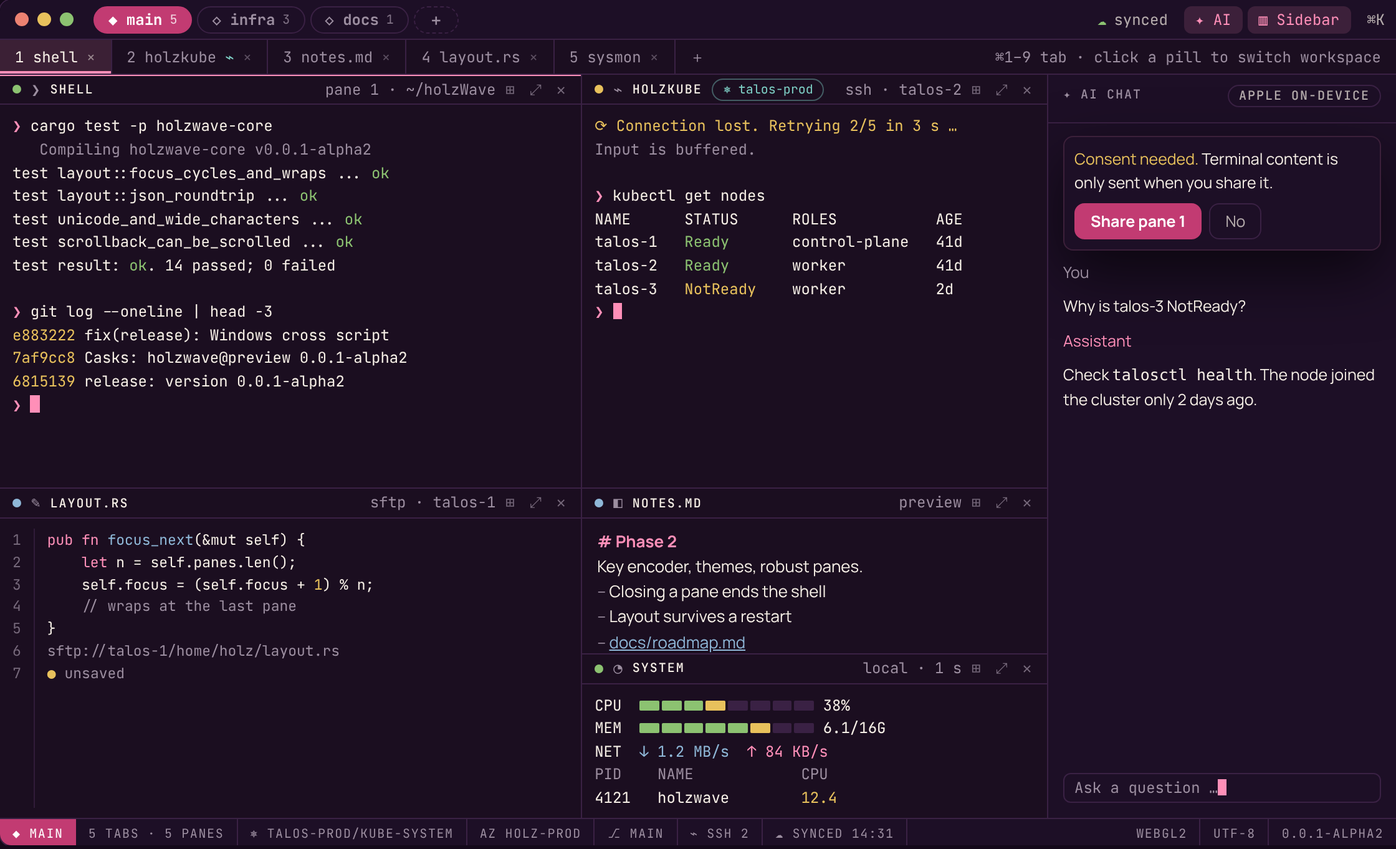
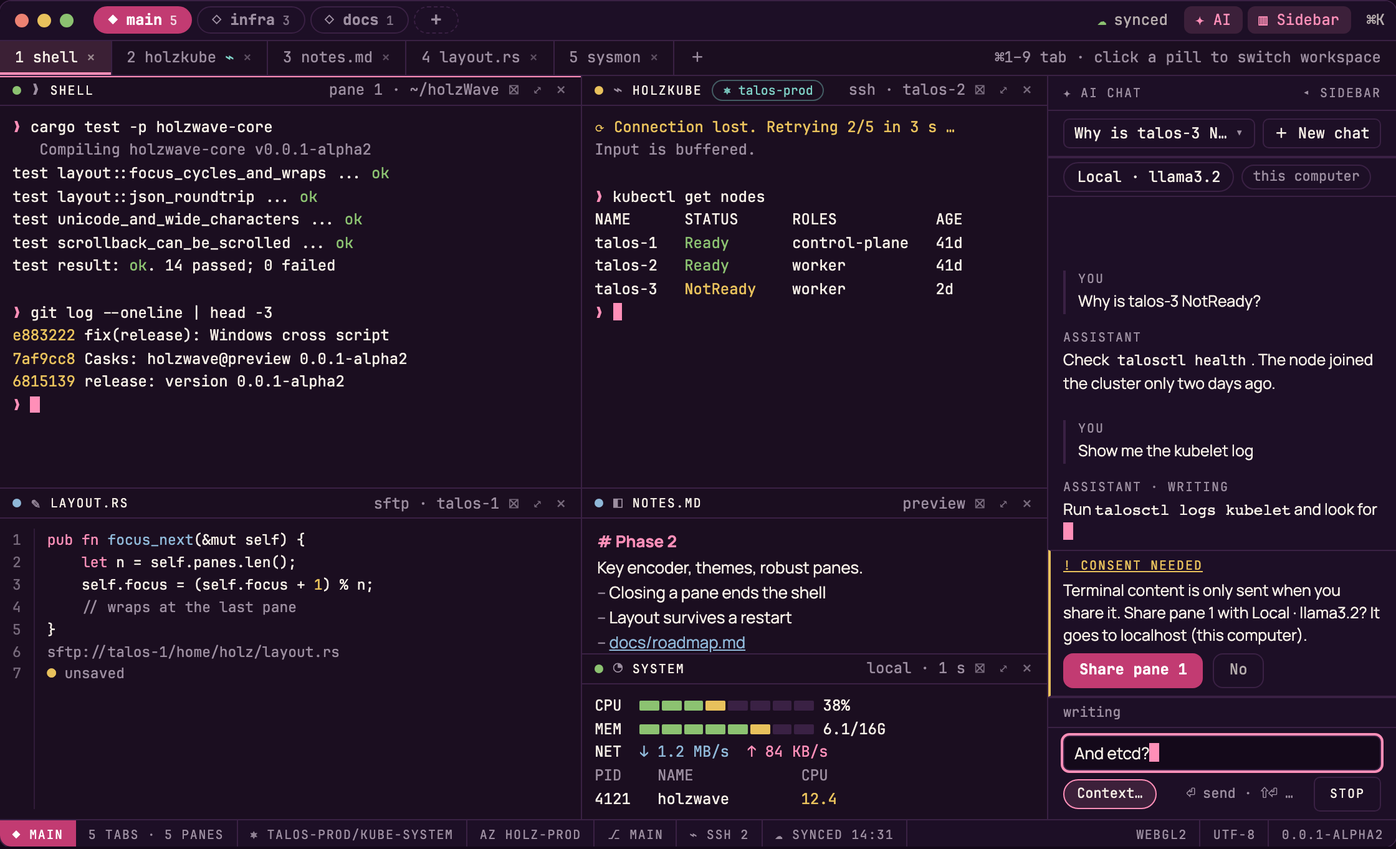
feat(07-32): the design record, the render script and the images were updated with the AI form of the sidebar column
- the column is the screen at 640 px and narrower with 44 px targets, contrast, motion and forced-colour modes reach the new controls
- docs/design/haarlinie-voll.html redraws the view ki and draws kichats, kisidecards and the phones row phones-side; render.cjs gains
  --dump and --html, so a markup hash proves that every other view and phones row is unchanged
- ai-chat.png is rendered again, ai-sidebar-list.png, ai-sidebar-cards.png and ai-sidebar-phone.png are new

Claude-Session: https://claude.ai/code/session_0131Y2UoT3m3QMiRtq78S4Lz

diff --git a/docs/design/haarlinie-voll.html b/docs/design/haarlinie-voll.html
@@ -268,6 +268,40 @@ p.lead{margin:6px 0 0;color:var(--ink2);max-width:70ch}
 .ph1 .c-foot{gap:6px;font-size:8px}
 .ph1 .c-send{min-height:22px;min-width:22px;padding:0 8px;font-size:8px}
 .ph1 .c-row{height:22px;padding:0 8px;font-size:9px;gap:6px}
+/* AI chat in the sidebar (docs/design.md 6.18): the column in its AI form. Flat, hairline, no shadow; the rose marks the chat on screen only. */
+.sa-side{overflow:hidden}
+.sa-head{display:flex;align-items:center;justify-content:space-between;flex:none;min-height:28px;padding:3px 12px;border-bottom:1px solid var(--edge);color:var(--ink3)}
+.sa-back{color:var(--ink3)}
+.sa-bar{display:flex;align-items:center;gap:6px;flex:none;padding:6px 12px;border-bottom:1px solid var(--edge)}
+.sa-title{flex:1;min-width:0;display:flex;align-items:center;gap:6px;min-height:24px;padding:0 8px;border:1px solid var(--edge);border-radius:5px;color:var(--ink);white-space:nowrap;overflow:hidden}
+.sa-text{flex:1;min-width:0;overflow:hidden;text-overflow:ellipsis}.sa-caret{flex:none;color:var(--ink3)}
+.sa-new{flex:none;display:inline-flex;align-items:center;min-height:24px;padding:0 8px;border:1px solid var(--edge);border-radius:5px;color:var(--ink);white-space:nowrap}
+.sa-status{flex:none;padding:3px 12px;border-bottom:1px solid var(--edge);color:var(--ink3);font-size:10px;white-space:nowrap;overflow:hidden;text-overflow:ellipsis}
+.sa-list{flex:none;border-bottom:1px solid var(--edge)}
+.sa-note{padding:3px 12px 0;color:var(--ink3);font-size:10px}
+.sa-row{display:flex;align-items:stretch;border-left:2px solid transparent}.sa-row.on{background:var(--wash);border-left-color:var(--rose)}
+.sa-pick{flex:1;min-width:0;display:grid;grid-template-columns:12px minmax(0,1fr);column-gap:6px;align-items:center;min-height:28px;padding:3px 8px}
+.sa-mk{grid-column:1;grid-row:1/3;align-self:start}
+.sa-nm{grid-column:2;overflow:hidden;text-overflow:ellipsis;white-space:nowrap}
+.sa-mt{grid-column:2;color:var(--ink3);font-size:10px;white-space:nowrap;overflow:hidden;text-overflow:ellipsis}
+.sa-del{align-self:center;flex:none;display:inline-flex;align-items:center;min-height:24px;margin-right:8px;padding:0 7px;border:1px solid var(--edge);border-radius:5px;color:var(--ink3);font-size:10px;white-space:nowrap}
+.sa-del.arm{border-color:var(--danger);color:var(--danger);text-decoration:underline}
+.sa-chat{flex:1;min-height:0;display:flex;flex-direction:column;border-top:1px solid var(--edge)}
+.sa-side .c-bar{min-height:30px;padding:3px 12px}
+.sa-side .c-log{padding:8px 12px;font-size:12.5px}
+.sa-side .c-comp{padding:6px 12px}
+.sa-side .ax-card,.sa-side .cx-card{padding:5px 10px 6px}
+.sa-side .ax-row{grid-template-columns:minmax(0,1fr) max-content;gap:0 8px;padding:1px 0}
+.sa-side .ax-row .nm{grid-column:1;grid-row:1}.sa-side .ax-row .by{grid-column:2;grid-row:1}.sa-side .ax-row .vl{grid-column:1/3;grid-row:2}
+.sa-side .ax-pay{max-height:124px;overflow:hidden}
+.sa-side .ax-where{margin-left:0;flex-basis:100%}
+.ph1 .sa-head{min-height:22px;padding:1px 8px;font-size:8px}
+.ph1 .sa-bar{padding:4px 8px;gap:4px}
+.ph1 .sa-title,.ph1 .sa-new{min-height:22px;font-size:8px;padding:0 6px}
+.ph1 .sa-status{padding:1px 8px;font-size:7.5px}
+.ph1 .sa-note{padding:2px 8px 0;font-size:7.5px}
+.ph1 .sa-pick{min-height:22px;padding:2px 6px;font-size:8px}.ph1 .sa-mt{font-size:7.5px}
+.ph1 .sa-del{min-height:22px;min-width:22px;justify-content:center;margin-right:5px;font-size:7.5px}
 /* Handys */
 .phones{display:flex;gap:16px;flex-wrap:wrap;width:fit-content;max-width:100%}
 .ph1{width:200px;height:400px;border:1px solid var(--edge);border-radius:22px;overflow:hidden;background:var(--ground);display:flex;flex-direction:column;font:400 10px/1.5 var(--mono);position:relative}
@@ -330,6 +364,10 @@ td:first-child{color:var(--ink);font-weight:600;white-space:nowrap}
   <h2>Running a command on a phone</h2>
   <p class="lead">The card is part of the screen: Allow once, Deny and the result toggle are at least 44 px high, the card is at most 60 % of the height and scrolls inside, and the command wraps and is never cut. Left, the command that waits; right, the same chat after a run that failed, with its result opened as text above the composer. Shown at the scale of the mock (about half).</p>
   <div class="phones" id="phones-command"></div>
+
+  <h2>AI chat in the sidebar on a phone</h2>
+  <p class="lead">The AI form of the column is the screen, as the sidebar is: ◂ Sidebar, the title button, ＋ New chat, every row and × are at least 44 px high (× also 44 px wide) and the composer text is at least 16 px. Left, the chat; right, the list with the chat on screen, a chat that is open in a pane (no ×) and a delete that was armed.</p>
+  <div class="phones" id="phones-side"></div>
 
   <h2>Features and where they live</h2>
   <div class="tblwrap"><table id="cov"></table></div>
@@ -430,7 +468,7 @@ function base(v){
   return `<div class="titlebar row">${wcL}
     <div class="ws on">◆ main <span class="n">5</span></div><div class="ws">◇ infra <span class="n">3</span></div><div class="ws">◇ docs <span class="n">1</span></div><div class="ws plus">＋</div>
     <span class="fill"></span>
-    <div class="tbtn ${v==='sync'?'on':''}"><span class="ok">☁</span> synced</div><div class="tbtn ${v==='ki'||v==='kipane'||v==='kistates'||v==='kiset'||v==='kiask'||v==='kioffer'||v==='kiapprove'||v==='kiapprovestates'||v==='kiwrite'||v==='kiwritestates'||v==='kicommand'||v==='kicommandstates'?'on':''}">✦ AI${v==='kiapprove'||v==='kiapprovestates'||v==='kiwrite'||v==='kicommand'?' <span class="ax-n">· 1</span>':''}</div><div class="tbtn on">▥ Sidebar</div><div class="tbtn ${v==='palette'?'on':''}">⌘K</div>${wcR}</div>
+    <div class="tbtn ${v==='sync'?'on':''}"><span class="ok">☁</span> synced</div><div class="tbtn ${v==='ki'||v==='kichats'||v==='kisidecards'||v==='kipane'||v==='kistates'||v==='kiset'||v==='kiask'||v==='kioffer'||v==='kiapprove'||v==='kiapprovestates'||v==='kiwrite'||v==='kiwritestates'||v==='kicommand'||v==='kicommandstates'?'on':''}">✦ AI${v==='kiapprove'||v==='kiapprovestates'||v==='kiwrite'||v==='kicommand'||v==='kisidecards'?' <span class="ax-n">· 1</span>':''}</div><div class="tbtn on">▥ Sidebar</div><div class="tbtn ${v==='palette'?'on':''}">⌘K</div>${wcR}</div>
   <div class="tabrow row">${tabs(v==='blocks'?1:0)}<span class="fill"></span><span class="dim" style="padding-right:12px">⌘1–9 tab · click a pill to switch workspace</span></div>
   <div class="body">${v==='preview'?previewArea():v==='kipane'||v==='kistates'||v==='kiset'||v==='kiask'||v==='kioffer'||v==='kiapprove'||v==='kiapprovestates'||v==='kiwrite'||v==='kiwritestates'||v==='kicommand'||v==='kicommandstates'?chatArea(v):`<div class="area">
     ${P('','❯','shell','pane 1 · ~/holzWave',shell(v==='search'?'search':v==='copy'?'copy':''),{f:1,s:'grid-row:1/2'})}
@@ -440,13 +478,8 @@ function base(v){
       ${P('in','◧','notes.md','preview',md)}
       ${P('','◔','system','local · 1 s',sysmon)}
     </div>${searchBar}
-  </div>`}${v==='ki'?'':side}${v==='ki'?kiPanel:''}</div>${copyBar||status()}`;
+  </div>`}${v==='ki'||v==='kichats'||v==='kisidecards'?sideAI(v):side}</div>${copyBar||status()}`;
 }
-const kiPanel=`<div class="side" style="width:280px"><div class="sec"><div class="h lbl"><span>✦ AI chat</span><span class="chip">Apple on-device</span></div></div>
- <div class="col fill" style="padding:10px 12px;gap:8px;font-family:var(--sans);font-size:12.5px"><div class="float" style="padding:8px;border-radius:8px;border-color:var(--wash)"><span class="wa">Consent needed.</span> Terminal content is only sent when you share it.<div class="row" style="gap:6px;margin-top:6px"><span class="btn p">Share pane 1</span><span class="btn">No</span></div></div>
- <div class="dim">You</div><div>Why is talos-3 NotReady?</div><div class="ro">Assistant</div><div>Check <code>talosctl health</code>. The node joined the cluster only 2 days ago.</div></div>
- <div class="input" style="margin:8px 12px 12px">Ask a question …<span class="cur"></span></div></div>`;
-
 /* The chat pane (docs/design.md 6.12). Two states of one conversation: `kipane` streams a reply, `kistates` shows the picker, a stopped
    reply, a failed turn and a long draft. The words are the ones of the page: the status words, the end row, the count. */
 const cMsg=(who,html,o={})=>`<div class="c-msg ${o.u?'u':''}"><div class="c-who">${who}${o.stat?` · <span class="c-stat ${o.run?'run':''}">${o.stat}</span>`:''}</div><div class="${o.md?'c-md':''}">${html}</div></div>`;
@@ -560,6 +593,30 @@ cBody.kicommand=`<div class="c-chat wx-fit"><div class="c-bar"><span class="c-ch
 cBody.kicommandstates=`<div class="c-chat wx-fit"><div class="c-bar"><span class="c-chip">Claude · claude-sonnet-5-5 → api.anthropic.com</span><span class="c-where leaves">cloud</span><span class="c-usage">in 3.4k · out 190</span><span class="c-setup">Providers…</span></div>
  <div class="c-log bot">${cMsg('assistant',`<div class="ax-tools">${wxTr('ran','Run a command','git status --short',{tog:'Hide result',res:'Exit status: 0.\n\nStandard output:\n M README.md'})}${wxTr('er','Run a command','cargo build 2&gt;&amp;1',{tog:'Hide result',res:'Exit status: 101.\n\nStandard error:\n[earlier output omitted]\nerror[E0432]: unresolved import `crate::cache`'})}${wxTr('er','Run a command','npm run e2e',{tog:'Hide result',res:'Stopped: the command ran longer than 60 seconds and was ended.'})}${wxTr('er','Run a command','make clean',{tog:'Hide result',res:'The user denied this action.'})}</div>`,{md:1})}</div>
  ${rxAsk({sent:1,where:'pane 2 · talos-1',remote:1,rows:[['tool','run_command','11 B'],['pane','2','1 B'],['target','talos-1','7 B'],['remote','true','4 B'],['command','talosctl health --server','23 B'],['cwd','/srv/app','8 B'],['timeout_secs','120','3 B'],['resolved_cwd','/srv/app','8 B']],model:'claude-sonnet-5-5',host:'api.anthropic.com',place:'cloud',leaves:1,hash:'c52e90a7d418'})}</div>`;
+/* AI chat in the sidebar (docs/design.md 6.18). The column in its AI form is 280 px wide and takes the place of the sidebar: the head (the name of the form, `◂ Sidebar` leads back), the bar (the title button with its caret, `＋ New chat`), the status line of the list and the list belong to the column; below them is the chat of 6.12 with the same cards. `ki` is the chat with its consent card, `kichats` the list, `kisidecards` an approval card at the column's width. */
+const saRow=(on,title,meta,o={})=>`<div class="sa-row ${on?'on':''}"><div class="sa-pick"><span class="sa-mk">${on?'●':'○'}</span><span class="sa-nm">${title}</span><span class="sa-mt">${meta}</span></div>${o.del?`<span class="sa-del ${o.arm?'arm':''}">${o.arm?'Delete?':'×'}</span>`:''}</div>`;
+const saTop=(open,status)=>`<div class="sa-head"><span class="lbl">✦ AI chat</span><span class="sa-back lbl">◂ Sidebar</span></div>
+ <div class="sa-bar"><span class="sa-title"><span class="sa-text">Why is talos-3 NotReady?</span><span class="sa-caret">${open?'▴':'▾'}</span></span><span class="sa-new">＋ New chat</span></div>${status?`<div class="sa-status">${status}</div>`:''}`;
+const saList=`<div class="sa-list"><div class="sa-note">chat-9.json: damaged, moved aside</div>${saRow(1,'Why is talos-3 NotReady?','llama3.2 · 2 h ago',{del:1})}${saRow(0,'Plan the backup job','llama3.2 · 3 d ago',{del:1})}${saRow(0,'Explain the failed deploy','llama3.2 · in pane 3')}${saRow(0,'Compare backup tools','llama3.2 · 1 w ago',{del:1,arm:1})}</div>`;
+const saBar=`<div class="c-bar"><span class="c-chip">Local · llama3.2</span><span class="c-where">this computer</span></div>`;
+const saComp=(draft,btn,ctx)=>`<div class="c-comp"><div class="c-in fo">${draft}<span class="cur"></span></div>${cFoot('',btn,ctx)}</div>`;
+cBody.ki=`<div class="c-chat">${saBar}
+ <div class="c-log bot">${cMsg('you','Why is talos-3 NotReady?',{u:1})}${cMsg('assistant','<p>Check <code>talosctl health</code>. The node joined the cluster only two days ago.</p>',{md:1})}${cMsg('you','Show me the kubelet log',{u:1})}${cMsg('assistant','Run <code>talosctl logs kubelet</code> and look for<span class="cur"></span>',{stat:'writing',run:1})}</div>
+ <div class="cx-card ask" role="group" aria-label="Share context"><div class="cx-head"><span class="cx-title">! Consent needed</span></div>
+ <p class="cx-t">Terminal content is only sent when you share it. Share pane 1 with Local · llama3.2? It goes to localhost (this computer).</p>
+ <div class="cx-acts"><span class="btn p">Share pane 1</span><span class="btn">No</span></div></div>
+ <div class="c-status">writing</div>
+ ${saComp('And etcd?',cStop,cxBtn('Context…',1))}</div>`;
+cBody.kichats=`<div class="c-chat">${saBar}
+ <div class="c-log bot">${cMsg('you','Show me the kubelet log',{u:1})}${cMsg('assistant','Run <code>talosctl logs kubelet</code> and look for the first error.',{md:1})}</div>
+ <div class="c-status"></div>
+ ${saComp('Ask a question',cSend)}</div>`;
+cBody.kisidecards=`<div class="c-chat">${saBar}
+ <div class="c-log bot">${cMsg('assistant',`<div class="ax-tools">${axTr('ran','List a folder','~/proj/notes','','')}</div>`,{md:1})}</div>
+ ${axAsk({tool:'Read a file',where:'pane 1 · This computer',rows:axReadRows.slice(0,6),dest:axDest('llama3.2','localhost:11434','this computer',0),hash:'9f3a41c2d7be'})}
+ <div class="c-status">waiting for your decision</div>
+ ${saComp('Ask a question',cStop)}</div>`;
+const sideAI=v=>`<div class="side sa-side" style="width:280px">${v==='kichats'?saTop(1,'Chat deleted.')+saList:saTop(0,'')}<div class="sa-chat">${cBody[v]}</div></div>`;
 function chatArea(v){const wide=v==='kiapprove'||v==='kiapprovestates'||v==='kiwrite'||v==='kiwritestates'||v==='kicommand'||v==='kicommandstates';return wide?`<div class="area" style="grid-template-columns:1fr;grid-template-rows:1fr">${P('','✦','chat','Why is talos-3 NotReady?',cBody[v],{f:1,s:'grid-row:1/2'})}</div>`:`<div class="area" style="grid-template-columns:1fr 1fr;grid-template-rows:1fr">${P('','❯','shell','pane 1 · ~/holzWave',shell(''),{s:'grid-row:1/2'})}${P('','✦','chat','Why is talos-3 NotReady?',cBody[v==='kiset'?'kipane':v],{f:1,s:'grid-row:1/2'})}</div>`}
 
 /* The AI providers dialog (docs/design.md 6.13): three groups (privacy, providers, the provider shown) and the buttons. The chosen
@@ -629,7 +686,9 @@ const views=[
  ['keys','Shortcuts','The key binding editor. Grouped by pane, tab, workspace and tools. Always shows the keys of the running platform (see the platform switch). Capture, conflicts and fixed shortcuts are visible.'],
  ['preview','Previews','File browser (local and SFTP) with image, PDF and video as panes of their own. Markdown and the editor are in Daily. Space in the browser opens the preview beside it.'],
  ['sync','Sync','Nextcloud/WebDAV, end-to-end encrypted, conflicts keep a backup, a list of what is synced.'],
- ['ki','AI sidebar','The sidebar form of the chat: it replaces the sidebar when opened. This column and its consent card are drawn ahead of the work that builds them; the chat pane (the next views) is the first built form. Terminal content is sent only with explicit consent per pane.'],
+ ['ki','AI sidebar','The AI chat takes the place of the sidebar in the same column, 280 px wide: the head with ◂ Sidebar leads back, the title button names the chat and ＋ New chat starts another. Below them is the chat of the pane form: the bar, the transcript, the consent card and the composer. Terminal content is sent only after you share that pane.'],
+ ['kichats','AI chat: conversations','The title button opens the list of stored chats under the head: a row for the chat on screen (the rose wash, a 2 px bar and the mark ●), one for every other chat with its model and age, and a chat that is open in a pane says in pane 3 and has no ×. The first press on × turns it into Delete? (underlined, in the danger colour); the second deletes the chat for good. The core’s notes about its folder are dim lines above the rows, and one sentence about the list (here Chat deleted.) is said under the head.'],
+ ['kisidecards','AI chat: approval in the column','A decision is brought to the person: the card of 6.15 in the strip of the column, with the fields of the request stacked (the name with its size, the value under it), its own scroll in the payload box, the place chip, the hash and Allow once and Deny. ✦ AI · 1 in the title bar shows the column in this form on the chat that waits; the card never takes the keyboard.'],
  ['kipane','AI chat','The chat as a pane beside the shell, opened by the ✦ AI button. The bar says where the next request goes (provider, model, host) and, once a turn has told it, the place. A finished reply is Markdown, the reply that streams is plain text with its status word, and Stop takes the place of Send.'],
  ['kistates','AI chat states','The provider picker (a radio group, the chosen row marked), a reply that was stopped, a turn that failed with its class and the core’s line, and a long draft with the core’s token estimate. Every state has a word besides its colour.'],
  ['kiask','AI chat: share a pane','The card that asks before a pane is shared with the chat, here after the provider changed: it names the pane, the provider and where the text would go (the host and the place, cloud in the warn colour), says that every item is shown before a message is sent, and offers Share pane 1 or No. Context… in the composer opens it; nothing is asked of the core before the press.'],
@@ -646,7 +705,7 @@ const views=[
 const vb=$('#views');let cur='alltag';
 function render(){
   const st=$('#stage');
-  st.innerHTML=`<div class="m">${base(cur)}${(cur==='keys'?keysModal($('#root').dataset.os):ovl[cur==='alltag'||cur==='search'||cur==='copy'||cur==='ki'||cur==='kipane'||cur==='kistates'||cur==='kiask'||cur==='kioffer'||cur==='kiapprove'||cur==='kiapprovestates'||cur==='kiwrite'||cur==='kiwritestates'||cur==='kicommand'||cur==='kicommandstates'||cur==='preview'?'':cur]||'')}</div>`;
+  st.innerHTML=`<div class="m">${base(cur)}${(cur==='keys'?keysModal($('#root').dataset.os):ovl[cur==='alltag'||cur==='search'||cur==='copy'||cur==='ki'||cur==='kichats'||cur==='kisidecards'||cur==='kipane'||cur==='kistates'||cur==='kiask'||cur==='kioffer'||cur==='kiapprove'||cur==='kiapprovestates'||cur==='kiwrite'||cur==='kiwritestates'||cur==='kicommand'||cur==='kicommandstates'||cur==='preview'?'':cur]||'')}</div>`;
   $('#note').textContent=views.find(v=>v[0]===cur)[2];
   vb.querySelectorAll('button').forEach(b=>b.setAttribute('aria-pressed',b.dataset.v===cur));
 }
@@ -728,6 +787,14 @@ $('#phones-command').innerHTML=rcPhone(cMsg('assistant',`<div class="ax-tools">$
  rxAsk({where:'pane 1 · This computer',rows:[['tool','run_command','11 B'],['remote','false','5 B'],['command',rcLong,'66 B'],['resolved_cwd','/Users/holz/proj','16 B']],model:'llama3.2',host:'localhost:11434',place:'this computer',leaves:0,taint:rxTaint.replace(' It can try to steer the assistant. Check the target and every field before you allow.',''),hash:'4be1907a2c55'}),'waiting for your decision')
 +rcPhone(cMsg('assistant',`<div class="ax-tools">${wxTr('er','Run a command','cargo test --lib',{tog:'Hide result',res:'Exit status: 101.\n\nStandard error:\nerror[E0432]: unresolved import'})}</div>`,{md:1}),'','working');
 
+/* AI chat in the sidebar on a phone: the AI form as the screen, and the same screen with the list open. */
+const sPhone=(list)=>ph('<span class="ro">✦</span> AI chat<span class="ro" style="margin-left:auto">✦ AI</span>',`<div class="col fill" style="min-height:0"><div class="sa-head"><span class="lbl">✦ AI chat</span><span class="sa-back lbl">◂ Sidebar</span></div>
+ <div class="sa-bar"><span class="sa-title"><span class="sa-text">Why is talos-3 NotReady?</span><span class="sa-caret">${list?'▴':'▾'}</span></span><span class="sa-new">＋ New chat</span></div>${list?`<div class="sa-status">Chat deleted.</div><div class="sa-list">${saRow(1,'Why is talos-3 NotReady?','llama3.2 · 2 h ago',{del:1})}${saRow(0,'Explain the failed deploy','llama3.2 · in pane 3')}${saRow(0,'Compare backup tools','llama3.2 · 1 w ago',{del:1,arm:1})}</div>`:''}
+ <div class="sa-chat"><div class="c-chat"><div class="c-bar"><span class="c-chip btn1">Local · llama3.2</span></div>
+ <div class="c-log bot">${cMsg('you','Show me the kubelet log',{u:1})}${cMsg('assistant','Run <code>talosctl logs kubelet</code>.',{md:1})}</div>
+ <div class="c-comp"><div class="c-in">Ask a question<span class="cur"></span></div><div class="c-foot">${cxBtn()}<span class="keys">⏎ send</span>${cSend}</div></div></div></div></div>`,'',{raw:1});
+$('#phones-side').innerHTML=sPhone(0)+sPhone(1);
+
 /* Feature list */
 const B='<span class="ph-tag built">built</span>',pl=n=>`<span class="ph-tag">Phase ${n}</span>`;
 const rows=[
@@ -738,7 +805,7 @@ const rows=[
 ['SSH with reconnect','Pane header, sidebar, connections',pl(3)],['WSL, Docker','Connections, block picker',pl(3)],['Keychain','Connections',pl(3)],
 ['Nextcloud sync, end-to-end','Title bar ☁, sync popover, settings',pl('3b')],
 ['File previews (Markdown, image, video, PDF)','Previews view and Daily',pl(4)],['Editor with SFTP','Editor block',pl(4)],
-['wsh CLI','Open blocks and set titles from the shell',pl(5)],['Widgets sidebar','Right, collapsible',pl(6)],['History with fuzzy search','Sidebar, ⌃R',pl(6)],['System monitor','System block',pl(6)],['AI chat in a pane','Title bar ✦ AI, palette, a pane beside the focused one',B],['AI providers and keys','Chat bar › Providers…, palette, Settings',B],['Sharing a pane with the chat','Chat › Context…',B],['Approving a tool call','Chat › approval card',B],['Changing a file','Chat › approval card › diff',B],['Running a command','Chat › approval card',B],['AI chat in the sidebar','Title bar ✦, replaces the sidebar',pl(6)],
+['wsh CLI','Open blocks and set titles from the shell',pl(5)],['Widgets sidebar','Right, collapsible',pl(6)],['History with fuzzy search','Sidebar, ⌃R',pl(6)],['System monitor','System block',pl(6)],['AI chat in a pane','Title bar ✦ AI, palette, a pane beside the focused one',B],['AI providers and keys','Chat bar › Providers…, palette, Settings',B],['Sharing a pane with the chat','Chat › Context…',B],['Approving a tool call','Chat › approval card',B],['Changing a file','Chat › approval card › diff',B],['Running a command','Chat › approval card',B],['AI chat in the sidebar','Palette, title bar ✦ AI, replaces the sidebar',B],
 ['Kubernetes, Talos, Azure, GAM7','Context in sidebar and status line, blocks',pl('6b')],['iOS and Android','One pane per screen, sheet, key row',pl(7)]
 ];
 $('#cov').innerHTML='<tr><th>Feature</th><th>Where</th><th>Status</th></tr>'+rows.map(r=>`<tr><td>${r[0]}</td><td>${r[1]}</td><td>${r[2]}</td></tr>`).join('');

diff --git a/app/src/aisidebar.css b/app/src/aisidebar.css
@@ -74,3 +74,23 @@
 .sb-ai .side-chat .approval-name { grid-area: name; min-width: 0; overflow-wrap: anywhere; }
 .sb-ai .side-chat .approval-bytes { grid-area: bytes; }
 .sb-ai .side-chat .approval-value { grid-area: value; }
+
+/* ---- narrow screens: 640 px and narrower -------------------------------------------------------------------------------- */
+
+/* The column is the screen, as the sidebar is: the form's own width rule is more specific than the column's, so it needs its own
+   narrow rule. Every control of the head and the list is at least 44 px high (the delete button also 44 px wide); the composer
+   text and the sheet of the provider picker are the chat's own narrow rules, which reach into the column. */
+@media (max-width: 640px) {
+  #sidebar[data-form="chat"] { width: 100%; }
+  .sb-ai .ai-side-back, .sb-ai .ai-side-title, .sb-ai .ai-side-new, .sb-ai .ai-side-pick, .sb-ai .ai-side-del { min-height: max(44px, calc(44rem / 12)); }
+  .sb-ai .ai-side-del { min-width: max(44px, calc(44rem / 12)); }
+}
+
+/* ---- forced colours: system colours outline the chat on screen and the focused controls ------------------------------------- */
+
+@media (forced-colors: active) {
+  :root .ai-side-row[data-current="true"] { outline: 2px solid Highlight; outline-offset: -2px; }
+  :root .sb-ai .ai-side-title:focus-visible, :root .sb-ai .ai-side-new:focus-visible, :root .sb-ai .ai-side-back:focus-visible,
+  :root .sb-ai .ai-side-pick:focus-visible, :root .sb-ai .ai-side-del:focus-visible { outline: 2px solid ButtonText; outline-offset: 2px; }
+  :root .sb-ai .ai-side-del[data-armed="true"] { outline: 2px solid Highlight; outline-offset: -2px; }
+}

diff --git a/docs/design.md b/docs/design.md
@@ -227,6 +227,8 @@ Each view is a state of the same window. Overlays use the 24 px radius and the s
 | AI chat: running a command | ![](design/ai-command.png) ![](design/ai-command-states.png) | the command card, the end of the command next to the buttons, and the states of a finished command (6.17): the whole command in a payload box with no height limit, the banner with the sentence that a command will run, then the rows of a command that ran, one that failed, one that timed out and one that was denied, each with its report as text, and the card of a command on a remote host while it runs |
 | AI providers | ![](design/ai-providers.png) | the dialog for providers, keys, the two privacy settings and the gateway disclosure (6.13) |
 | AI chat (sidebar) | ![](design/ai-chat.png) | the column form (6.18), which replaces the sidebar: the head with `◂ Sidebar`, the title button and `＋ New chat`, the chat of 6.12 below it with the consent card of 6.14 |
+| AI chat: conversations | ![](design/ai-sidebar-list.png) | the list of stored chats under the head (6.18): the chat on screen with the rose wash and a 2 px bar, the model and age of every row, a chat in a pane with no `×`, a delete that was armed (`Delete?`), the core's note about its folder and the sentence under the head |
+| AI chat: approval in the column | ![](design/ai-sidebar-cards.png) | the approval card of 6.15 in the strip of the column (6.18): the fields stacked with the size at the right of the name, `✦ AI · 1` in the title bar, the place chip, the hash and the two buttons |
 | Drag | ![](design/drag.png) | drop zones on the outer quarter of a pane, a tab drop zone, tear-off into a new window |
 
 ### 6.4 Shortcuts view
@@ -261,7 +263,7 @@ the bottom bar holds the tabs of the shown workspace. Tokens are the ones above;
 
 ![Phone](design/7-phone.png)
 
-A chat pane on a phone is the screen, with a sheet from the bottom edge for the provider (6.12); the context card (6.14) and the approval card (6.15) sit inside the screen with the same 44 px targets, and on a phone the payload box of the approval card scrolls inside it. The diff box of a write card (6.16) is part of the card with the same 44 px targets, wraps its rows and scrolls inside its own height, and the `Undo` button of a finished write is 44 px too. On a phone the command card (6.17) grows and the strip scrolls, the command wraps and the buttons keep their 44 px targets. The providers dialog (6.13) on a phone is the screen too, and the sheet rules of the chat apply to its targets and its text. The AI form of the sidebar column (6.18) is the screen on a phone like the sidebar is, with the same 44 px targets and composer text of at least 16 px.
+A chat pane on a phone is the screen, with a sheet from the bottom edge for the provider (6.12); the context card (6.14) and the approval card (6.15) sit inside the screen with the same 44 px targets, and on a phone the payload box of the approval card scrolls inside it. The diff box of a write card (6.16) is part of the card with the same 44 px targets, wraps its rows and scrolls inside its own height, and the `Undo` button of a finished write is 44 px too. On a phone the command card (6.17) grows and the strip scrolls, the command wraps and the buttons keep their 44 px targets. The providers dialog (6.13) on a phone is the screen too, and the sheet rules of the chat apply to its targets and its text. The AI form of the sidebar column (6.18) is the screen on a phone like the sidebar is, with the same 44 px targets and composer text of at least 16 px (the phone image is in 6.18).
 
 ### 6.7 Platforms
 
@@ -1010,6 +1012,8 @@ a time. `▥ Sidebar` and `Cmd+B` show and hide the column in whichever form it 
 launches: the column opens as the sidebar, so a launch never puts a transcript on the screen or asks the core for a chat
 unasked. The title bar needs no new control.
 
+![AI chat in the sidebar](design/ai-chat.png)
+
 The chat in the column is the module of the chat pane (6.12): the same bar, transcript, strip of cards, status line and
 composer, fed by the same events. It is not a block, so it is not in the layout and not restored at launch (its file is,
 and the list shows it).
@@ -1045,6 +1049,8 @@ chat` when empty) and under it, in mono and dim, the model the chat is pinned to
 (`llama3.2 · 2 h ago`). Titles are the first line of what someone typed, so they are text and nothing else. The notes that
 the core sends about the folder are shown as dim lines above the rows (at most five). At most 500 rows are drawn.
 
+![Conversations](design/ai-sidebar-list.png)
+
 **One chat has one place.** A chat that is open in a pane of this window says `in pane 3` instead of the age. Choosing it
 focuses that pane (or, when the pane is in another tab, says `That chat is open in another tab.`), and it has no delete
 button, so a chat is never in the column and in a pane at once. A switch carries nothing: the strip, the attached offer and
@@ -1066,6 +1072,8 @@ same components in the strip. In the column the payload rows stack (the name abo
 name), the diff and the command wrap and never need a horizontal scroll, and the strip is at most half the height of the
 column and scrolls inside.
 
+![Approval in the column](design/ai-sidebar-cards.png)
+
 **A decision is brought to the person.** When a tool call waits in the column's chat and the column is hidden or shows the
 sidebar, `✦ AI · n` shows the column in the AI form on that chat. A card never takes the keyboard by itself.
 
@@ -1076,6 +1084,8 @@ rows, `Home` and `End` go to the first and the last. Every control carries `data
 **Narrow screens (640 px and narrower).** The column is the screen, as the sidebar is. `◂ Sidebar`, the title button,
 `＋ New chat`, the row buttons and `×` are at least 44 px high (`×` also 44 px wide), composer text is at least 16 px, and the
 provider picker stays the bottom sheet of 6.12.
+
+![On a phone](design/ai-sidebar-phone.png)
 
 **Accessibility.** While the AI form shows, the column is an `aside` named `AI chat`. The title button has `aria-expanded`
 and `aria-controls` the list; the list is a `list` named `Chats` and the chat on screen has `aria-current`; the status line
